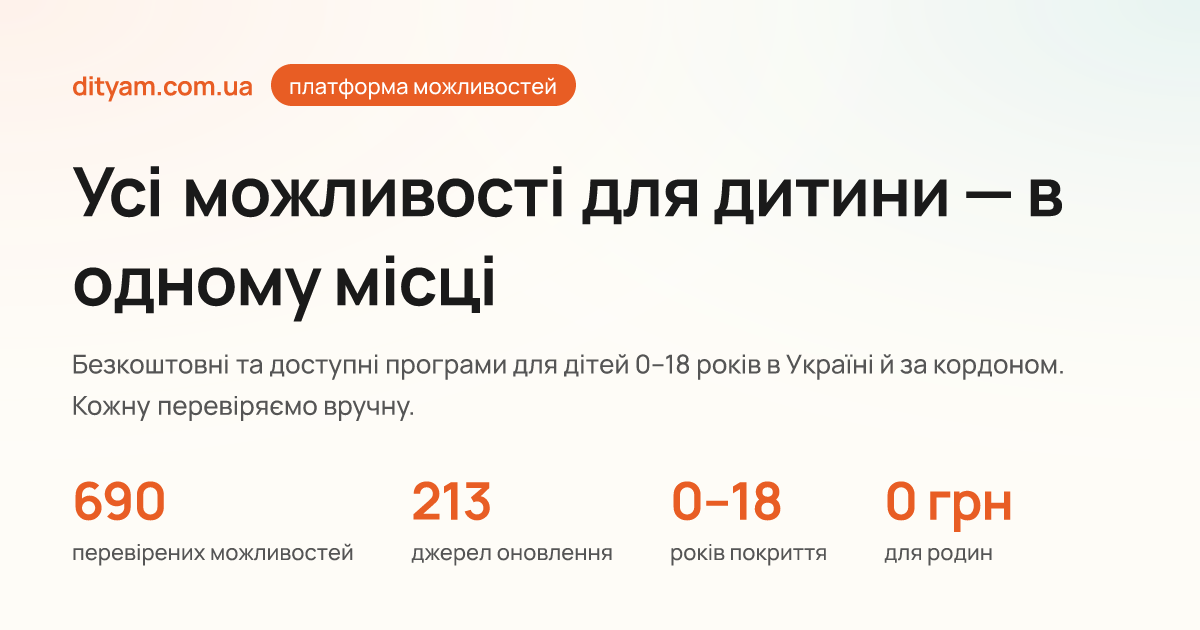
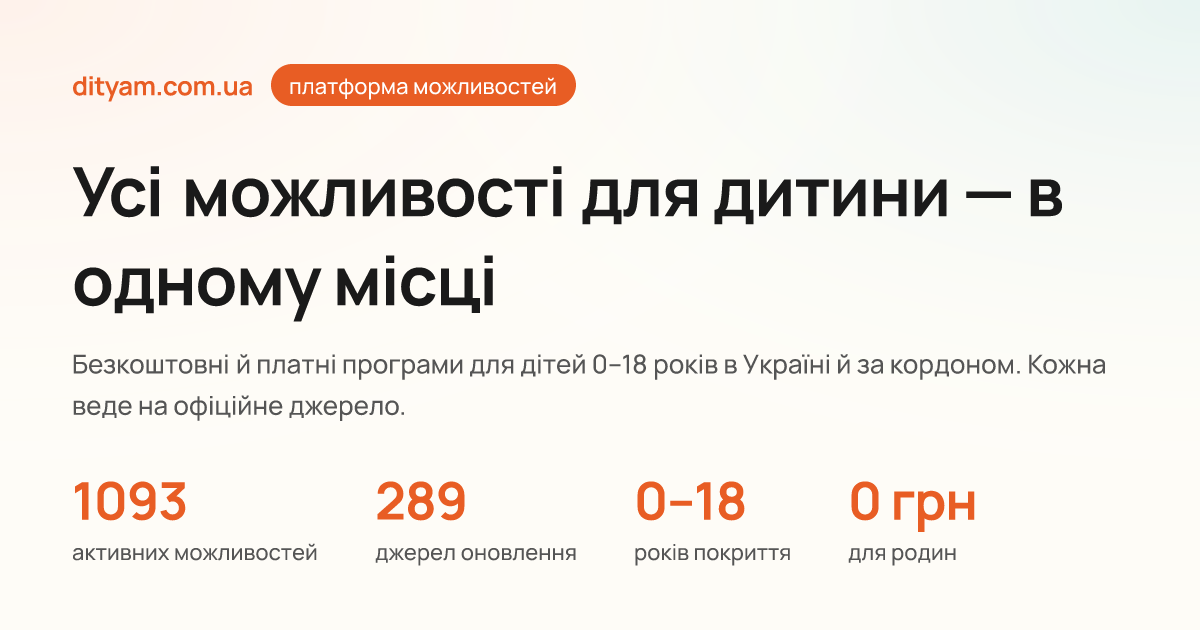
fix: прибрано «перевіряємо вручну» звідусіль
На прохання Марії 14.09.2026: «видали звідусіль перевіряємо вручну».

Твердження було неправдою. Записи проходять автоматичні ворота:
обовʼязкові поля, модель-суддя, щоденна перевірка посилань. Людина
дивиться лише сумнівні записи й чутливі категорії.

Де стояло і що тепер:
- прескіт, uk і en: опис одним абзацом і «Як наповнюється»;
- блок підписки на Telegram, uk і en;
- речення-підсумок на кожній тематичній підбірці, uk і en;
- картинка-прев'ю сайту: живий маршрут і статичний public/og-image.png,
  перемальований із живими числами (1 093 можливості, 289 джерел);
- підбірка безкоштовних гуртків: примітка й відповідь у FAQ, uk і en;
- сторінки «Як ми перевіряємо» і «How we verify»;
- текст старого поста про WoMo.

Попутно в тих самих рядках:
- «доступні програми» → «платні»: платне називаємо платним;
- «children of the fallen» у прескіті → «children of Ukraine’s defenders»;
- «нічого не продає» → «не бере комісії»: після Dityam+ це неправда;
- «каталог» → «платформа», «Dityam» → «Dityam.com.ua».

Сторінки «Як ми перевіряємо» звірено з кодом рядок за рядком. Прибрано
«все від агента йде на ручну модерацію» (зелений коридор публікує без
людини), «дитячих даних не збираємо взагалі» (Dityam+ зберігає профіль),
«щоночі» (скрапери й перевірка посилань ідуть раз на день), «посольства» і
«джерел щодня». Лишилось підтверджене: три невдалі перевірки поспіль до
закриття, щотижневе перечитування записів без дедлайну, дата останньої
перевірки на картці.
[…]

diff --git a/app/yak-my-pereviriaiemo/page.js b/app/yak-my-pereviriaiemo/page.js
@@ -6,15 +6,51 @@ const SITE_URL = 'https://dityam.com.ua';
 
 export const revalidate = 3600;
 
+// 14.09.2026 сторінку звірено з кодом рядок за рядком. Прибрано:
+// «все нове від агента йде на ручну модерацію» (зелений коридор auto_review
+// публікує без людини), «дитячих даних не збираємо взагалі» (Dityam+ зберігає
+// профіль дитини), «щоночі» (скрапери й перевірка лінків ідуть раз на день
+// уранці), «200+ джерел» і «джерел щодня» (число — джерела з живими записами).
+// SEO/GEO: title з повною назвою до 60 символів, опис до 160, свої OG і
+// Twitter, JSON-LD WebPage + BreadcrumbList.
+const TITLE = 'Як Dityam.com.ua перевіряє можливості для дітей';
+const DESCRIPTION = 'Щоденний збір, обовʼязкові поля перед публікацією, щоденна перевірка посилань, закриття завершених наборів, злиття дублів і модератор там, де є сумнів.';
+
 export const metadata = {
-  title: 'Як ми перевіряємо дані — Dityam',
-  description:
-    'Як працює каталог Dityam: 200+ джерел, щоденні оновлення, автоматична перевірка кожного лінка щоночі, детекція закритих наборів і ручна модерація сумнівного. Чесно про те, що стоїть за словом «перевірено».',
+  title: { absolute: TITLE },
+  description: DESCRIPTION,
   alternates: {
     canonical: 'https://dityam.com.ua/yak-my-pereviriaiemo',
     // Взаємність обовʼязкова: односторонню анотацію Google ігнорує.
     languages: { uk: 'https://dityam.com.ua/yak-my-pereviriaiemo', en: 'https://dityam.com.ua/en/how-we-verify' },
   },
+  openGraph: {
+    type: 'website', locale: 'uk_UA', siteName: 'Dityam.com.ua',
+    url: 'https://dityam.com.ua/yak-my-pereviriaiemo', title: TITLE, description: DESCRIPTION,
+  },
+  twitter: { card: 'summary_large_image', title: TITLE, description: DESCRIPTION },
+};
+
+const JSON_LD = {
+  '@context': 'https://schema.org',
+  '@graph': [
+    {
+      '@type': 'WebPage',
+      '@id': 'https://dityam.com.ua/yak-my-pereviriaiemo#page',
+      url: 'https://dityam.com.ua/yak-my-pereviriaiemo',
+      name: TITLE,
+      description: DESCRIPTION,
+      inLanguage: 'uk',
+      isPartOf: { '@id': 'https://dityam.com.ua/#website' },
+    },
+    {
+      '@type': 'BreadcrumbList',
+      itemListElement: [
+        { '@type': 'ListItem', position: 1, name: 'Головна', item: 'https://dityam.com.ua' },
+        { '@type': 'ListItem', position: 2, name: 'Як ми перевіряємо', item: 'https://dityam.com.ua/yak-my-pereviriaiemo' },
+      ],
+    },
+  ],
 };
 
 async function getStats() {
@@ -35,18 +71,18 @@ async function getStats() {
 const STEPS = [
   {
     icon: '🔎',
-    title: 'Щодня збираємо з усіх наших джерел',
-    text: 'Державні сайти, фонди, посольства, громадські організації, освітні платформи й Telegram-канали. Скрапери та пошуковий агент працюють щоночі; частота під кожне джерело своя — сезонні (табори навесні, олімпіади восени) перевіряються частіше.',
+    title: 'Щодня збираємо з наших джерел',
+    text: 'Державні сайти, фонди, міжнародні програми, громадські організації, освітні платформи й Telegram-канали. Скрапери й пошуковий агент працюють щодня; частота обходу своя для кожного джерела — ті, де нове зʼявляється частіше, перевіряємо частіше.',
   },
   {
     icon: '🧠',
     title: 'Структуруємо кожен запис',
-    text: 'Із сирого тексту виділяємо головне: вік, тему, місто, вартість, дедлайн. Якщо на сторінці написано «реєстрацію завершено» — запис одразу закривається, навіть якщо сторінка ще жива.',
+    text: 'Із тексту організатора виділяємо головне: вік, тип, місто або формат, вартість, дату. Без дати, типу, віку, вартості й формату чи місця запис не публікується — його дивиться модератор. Якщо на сторінці написано, що набір завершено, запис одразу закривається, навіть якщо сторінка ще жива.',
   },
   {
     icon: '🔗',
-    title: 'Перевіряємо кожен лінк щоночі',
-    text: 'Усі активні можливості проходять нічну перевірку посилань. Мертвий лінк не ховається одразу — даємо джерелу три доби ожити, і лише потім закриваємо запис. На сторінці кожної можливості видно, коли її перевірено востаннє.',
+    title: 'Перевіряємо кожне посилання щодня',
+    text: 'Усі активні можливості щодня проходять перевірку посилань. Мертве посилання не ховається одразу: запис закривається лише після трьох невдалих перевірок поспіль. На сторінці кожної можливості видно, коли посилання перевірено востаннє.',
   },
   {
     icon: '👯',
@@ -56,12 +92,12 @@ const STEPS = [
   {
     icon: '⏳',
     title: 'Не даємо записам застаріти',
-    text: 'Можливості без дедлайну (гуртки, курси) регулярно переперевіряються: сторінка жива і набір триває — запис лишається; ні — чесно позначаємо «завершено». Закриті сторінки не зникають: на них плашка і посилання на живий каталог.',
+    text: 'Записи без дедлайну (гуртки, курси) щотижня перечитуються: сторінка жива і набір триває — запис лишається; ні — позначаємо «завершено». Закриті сторінки не зникають: на них плашка й посилання на актуальні можливості.',
   },
   {
     icon: '🫶',
-    title: 'Людина — там, де сумнів',
-    text: 'Все нове від пошукового агента і все, у чому система не впевнена, потрапляє на ручну модерацію перед публікацією. Дитячих даних не збираємо взагалі — каталог працює без реєстрації.',
+    title: 'Модератор — там, де сумнів',
+    text: 'Автоматично запис публікується лише тоді, коли погоджуються і механічні перевірки, і модель-суддя. Усе, де бракує обовʼязкових полів, де суддя вагається, а також медична, психологічна допомога й виплати, іде до модератора. Користуватися платформою можна без реєстрації.',
   },
 ];
 
@@ -70,6 +106,7 @@ export default async function YakPereviriaiemo() {
 
   return (
     <>
+      <script type="application/ld+json" dangerouslySetInnerHTML={{ __html: JSON.stringify(JSON_LD) }} />
       <div className="container">
         <div className="hero">
           <div className="hero-copy">
@@ -79,11 +116,11 @@ export default async function YakPereviriaiemo() {
             <h1>
               Як ми перевіряємо
               <br />
-              <span className="accent">дані каталогу</span>
+              <span className="accent">можливості на платформі</span>
             </h1>
             <p>
-              «Перевірено» на Dityam — це не обіцянка, а щоденний процес. Ось як
-              він влаштований — чесно і без магії.
+              «Перевірено» на Dityam.com.ua — це не обіцянка, а щоденний процес.
+              Ось як він влаштований — чесно й без магії.
             </p>
             <div className="stats">
               <div className="stat">
@@ -96,7 +133,7 @@ export default async function YakPereviriaiemo() {
               </div>
               <div className="stat">
                 <span className="stat-num">{sources ?? FALLBACK.sources}</span>
-                <span className="stat-label">джерел щодня</span>
+                <span className="stat-label">джерел із живими записами</span>
               </div>
             </div>
           </div>
@@ -116,7 +153,7 @@ export default async function YakPereviriaiemo() {
 
         <p className="topic-note" style={{ marginTop: 24 }}>
           Побачили помилку чи мертве посилання? <a href="mailto:hellodityam.com.ua@gmail.com?subject=Помилка%20на%20dityam.com.ua">Напишіть нам</a> —
-          виправимо і скажемо дякую. А якщо знаєте можливість, якої в каталозі нема —{' '}
+          виправимо і скажемо дякую. А якщо знаєте можливість, якої на платформі ще немає —{' '}
           <a href="mailto:hellodityam.com.ua@gmail.com?subject=Додати%20можливість">пропонуйте</a>.
         </p>
       </div>

diff --git a/app/en/how-we-verify/page.js b/app/en/how-we-verify/page.js
@@ -6,10 +6,40 @@ const SITE_URL = 'https://dityam.com.ua';
 
 export const revalidate = 3600;
 
+// Звірено з кодом 14.09.2026 — див. коментар в app/yak-my-pereviriaiemo/page.js.
+const TITLE = 'How Dityam.com.ua checks opportunities for children';
+const DESCRIPTION = 'Daily collection, required fields before publishing, daily link checks, closed intakes detected, duplicates merged, and a moderator wherever there is doubt.';
+
+const JSON_LD = {
+  '@context': 'https://schema.org',
+  '@graph': [
+    {
+      '@type': 'WebPage',
+      '@id': `${SITE_URL}/en/how-we-verify#page`,
+      url: `${SITE_URL}/en/how-we-verify`,
+      name: TITLE,
+      description: DESCRIPTION,
+      inLanguage: 'en',
+      isPartOf: { '@id': `${SITE_URL}/#website` },
+    },
+    {
+      '@type': 'BreadcrumbList',
+      itemListElement: [
+        { '@type': 'ListItem', position: 1, name: 'Home', item: `${SITE_URL}/en` },
+        { '@type': 'ListItem', position: 2, name: 'How we verify', item: `${SITE_URL}/en/how-we-verify` },
+      ],
+    },
+  ],
+};
+
 export const metadata = {
-  title: 'How we verify data — Dityam',
-  description:
-    'How the Dityam platform works: 200+ sources, daily updates, every link checked nightly, closed intakes detected, and human moderation where there is doubt. Honestly about what “verified” means here.',
+  title: { absolute: TITLE },
+  description: DESCRIPTION,
+  openGraph: {
+    type: 'website', locale: 'en_GB', siteName: 'Dityam.com.ua',
+    url: `${SITE_URL}/en/how-we-verify`, title: TITLE, description: DESCRIPTION,
+  },
+  twitter: { card: 'summary_large_image', title: TITLE, description: DESCRIPTION },
   alternates: {
     canonical: `${SITE_URL}/en/how-we-verify`,
     languages: {
@@ -37,18 +67,18 @@ async function getStats() {
 const STEPS = [
   {
     icon: '🔎',
-    title: 'We collect from every source, every day',
-    text: 'Government sites, foundations, embassies, NGOs, educational platforms and Telegram channels. Scrapers and a search agent run nightly; each source has its own rhythm — seasonal ones (camps in spring, olympiads in autumn) are checked more often.',
+    title: 'We collect from our sources every day',
+    text: 'Government sites, foundations, international programmes, NGOs, educational platforms and Telegram channels. Scrapers and a search agent run daily; each source has its own rhythm — where new things appear more often, we check more often.',
   },
   {
     icon: '🧠',
     title: 'We structure every record',
-    text: 'From raw text we pull out what matters: age, topic, city, cost, deadline. If a page says the intake is closed, the record closes right away — even if the page itself is still alive.',
+    text: 'From the organiser’s text we pull out what matters: age, type, city or format, cost, date. Without a date, type, age, cost and format or place, a record is not published — a moderator looks at it. If a page says the intake is closed, the record closes right away, even if the page itself is still alive.',
   },
   {
     icon: '🔗',
-    title: 'We check every link nightly',
-    text: 'All active opportunities go through a nightly link check. A dead link isn’t hidden at once — we give the source three days to come back, and only then close the record. Every opportunity page shows when it was last checked.',
+    title: 'We check every link daily',
+    text: 'All active opportunities go through a link check every day. A dead link isn’t hidden at once: a record closes only after three failed checks in a row. Every opportunity page shows when its link was last checked.',
   },
   {
     icon: '👯',
@@ -58,12 +88,12 @@ const STEPS = [
   {
     icon: '⏳',
     title: 'We don’t let records go stale',
-    text: 'Opportunities without a deadline (clubs, courses) are re-checked regularly: if the page is alive and the intake is still open, the record stays; if not, we honestly mark it as finished. Closed pages don’t disappear: they carry a notice and a link back to the live listings.',
+    text: 'Listings without a deadline (clubs, courses) are re-read every week: if the page is alive and the intake is still open, the record stays; if not, we mark it as finished. Closed pages don’t disappear: they carry a notice and a link back to current opportunities.',
   },
   {
     icon: '🫶',
-    title: 'A human where there is doubt',
-    text: 'Everything new from the search agent, and anything the system isn’t sure about, goes to manual moderation before publication. We collect no data about children at all — the platform works without sign-up.',
+    title: 'A moderator where there is doubt',
+    text: 'A listing is published automatically only when both the mechanical checks and an AI judge agree. Anything missing required fields, anything the judge hesitates on, and all medical, psychological help and payments go to a moderator. You can use the platform without signing up.',
   },
 ];
 
@@ -72,6 +102,7 @@ export default async function HowWeVerifyEn() {
 
   return (
     <>
+      <script type="application/ld+json" dangerouslySetInnerHTML={{ __html: JSON.stringify(JSON_LD) }} />
       <div className="container" lang="en">
         <div className="hero">
           <div className="hero-copy">
@@ -84,8 +115,8 @@ export default async function HowWeVerifyEn() {
               <span className="accent">the data</span>
             </h1>
             <p>
-              “Verified” on Dityam isn’t a promise — it’s a daily process. Here is
-              how it works, honestly and without magic.
+              “Verified” on Dityam.com.ua isn’t a promise — it’s a daily process.
+              Here is how it works, honestly and without magic.
             </p>
             <div className="stats">
               <div className="stat">
@@ -98,7 +129,7 @@ export default async function HowWeVerifyEn() {
               </div>
               <div className="stat">
                 <span className="stat-num">{sources ?? FALLBACK.sources}</span>
-                <span className="stat-label">sources, every day</span>
+                <span className="stat-label">sources with live listings</span>
               </div>
             </div>
           </div>

diff --git a/lib/topics.js b/lib/topics.js
@@ -54,13 +54,14 @@ export const TOPICS = {
     intro:
       'Гуртки й курси, за які не треба платити: державні, від громадських організацій, університетів і бізнесу. Частина працює онлайн, тож долучитись можна з будь-якого міста або з-за кордону.',
     note:
-      'Каталог не бере комісії й нічого не продає — ми лише збираємо в одному місці те, що вже існує, і перевіряємо кожен запис вручну.',
+      // Твердження про ручну перевірку прибрано 14.09.2026 на прохання Марії: записи проходять автоматичні ворота, людина дивиться лише сумнівні.
+      'Платформа не бере комісії ні з організаторів, ні з родин: ми збираємо в одному місці те, що вже існує, і кожен запис веде на офіційну сторінку організатора.',
     // FAQ: видимий блок + FAQPage-схема. Питання — реальні запити з пошуку;
     // відповіді самодостатні, щоб AI-асистент міг процитувати їх дослівно.
     faq: [
       {
         q: 'Чи справді всі гуртки в цій підбірці безкоштовні?',
-        a: 'Так. Сюди потрапляють лише гуртки, курси й майстер-класи з безкоштовною участю: державні програми, проєкти громадських організацій, університетів і бізнесу. Кожен запис перевірено вручну перед публікацією.',
+        a: 'Так. Сюди потрапляють лише гуртки, курси й майстер-класи з безкоштовною участю: державні програми, проєкти громадських організацій, університетів і бізнесу. Вартість визначаємо за текстом на сторінці організатора, і кожна картка веде саме туди — перевірте умови перед записом.',
       },
       {
         q: 'Чи можна займатися онлайн з іншого міста або з-за кордону?',
@@ -68,7 +69,7 @@ export const TOPICS = {
       },
       {
         q: 'Як записатися на безкоштовний гурток?',
-        a: 'Кожна картка в каталозі веде на офіційну сторінку організатора — запис відбувається саме там. Dityam не бере комісії та не збирає заявок: це відкритий каталог.',
+        a: 'Кожна картка на платформі веде на офіційну сторінку організатора — запис відбувається саме там. Dityam.com.ua не бере комісії та не збирає заявок.',
       },
     ],
     // Англійська версія — не переклад, а своя сторінка під свої запити.
@@ -84,11 +85,11 @@ export const TOPICS = {
       intro:
         'Clubs and courses that cost nothing: run by the state, by charities, universities and companies. Many are online, so a child can join from another city — or from another country.',
       note:
-        'Dityam takes no commission and sells nothing. We collect what already exists in one place and check every listing by hand.',
+        'Dityam.com.ua takes no commission from organisers or families: we collect what already exists in one place, and every listing links to the organiser’s official page.',
       faq: [
         {
           q: 'Are these clubs really free?',
-          a: 'Yes. Only clubs, courses and workshops with free participation are listed here: state programmes, projects by charities, universities and companies. Every listing is checked by hand before it is published.',
+          a: 'Yes. Only clubs, courses and workshops with free participation are listed here: state programmes, projects by charities, universities and companies. We take the cost from the organiser’s own page, and every card links there — check the terms before signing up.',
         },
         {
           q: 'Can a child join online from abroad?',

diff --git a/app/PressKit.js b/app/PressKit.js
@@ -49,8 +49,8 @@ const T = {
       + 'дітей 0–18 років в Україні та за кордоном. Курси, олімпіади, '
       + 'стипендії, табори, гранти, обміни, медична допомога та державні '
       + 'виплати — в одному місці, з фільтрами за віком, регіоном, вартістю '
-      + 'й особливими потребами дитини. Кожен запис перевіряється вручну і '
-      + 'має посилання на офіційне джерело. Окрема увага — дітям ВПО, дітям '
+      + 'й особливими потребами дитини. Кожен запис має посилання на офіційне '
+      + 'джерело, а посилання перевіряються щодня. Окрема увага — дітям ВПО, дітям '
       + 'захисників і захисниць та дітям з особливими потребами.',
 
     briefTitle: 'Коротко',
@@ -60,7 +60,8 @@ const T = {
       ['Вік дітей', '0–18 років'],
       ['Для родин', 'безкоштовно, без реклами й без реєстрації'],
       ['Хто робить', 'Марія Шутяк, соло-проєкт'],
-      ['Як наповнюється', 'щоденні скрапери МОН, МАН, IREX, UNICEF, Erasmus+ та інших джерел + ручна модерація кожного запису; посилання перевіряються щоночі'],
+      // Твердження про ручну перевірку прибрано 14.09.2026 на прохання Марії: записи проходять автоматичні ворота, людина дивиться лише сумнівні.
+      ['Як наповнюється', 'щоденні скрапери МОН, МАН, Erasmus+ та інших джерел; автоматична перевірка обовʼязкових полів, сумнівні записи дивиться модератор; посилання перевіряються щодня'],
     ],
     regions: 'Регіональні сторінки',
 
@@ -119,8 +120,8 @@ const T = {
       + 'aged 0–18 in Ukraine and abroad. Courses, olympiads, scholarships, camps, '
       + 'grants, exchanges, medical help and state payments — in one place, with '
       + 'filters by age, region, cost and a child’s particular needs. Every listing '
-      + 'is checked by hand and links to its official source. Particular attention '
-      + 'goes to displaced children, children of veterans and of the fallen, and '
+      + 'links to its official source, and links are checked daily. Particular attention '
+      + 'goes to displaced children, children of Ukraine’s defenders, and '
       + 'children with special needs.',
 
     briefTitle: 'In brief',
@@ -130,7 +131,7 @@ const T = {
       ['Ages', '0–18'],
       ['For families', 'free, with no advertising and no sign-up'],
       ['Who runs it', 'Mariia Shutiak, a solo project'],
-      ['How it is filled', 'daily scrapers of the Ministry of Education, the Junior Academy of Sciences, IREX, UNICEF, Erasmus+ and other sources, plus manual review of every listing; links are checked nightly'],
+      ['How it is filled', 'daily scrapers of the Ministry of Education, the Junior Academy of Sciences, Erasmus+ and other sources; automatic checks of required fields, with doubtful listings reviewed by a moderator; links are checked daily'],
     ],
     regions: 'Regional pages',
 

diff --git a/app/TelegramSubscribeBlock.js b/app/TelegramSubscribeBlock.js
@@ -14,13 +14,14 @@ const L = {
   uk: {
     aria: 'Telegram-канал Dityam',
     title: 'Щоб не шукати вручну',
-    desc: 'Нові можливості для дітей виходять щодня в Telegram — з датами й дедлайнами. Кожну перевіряємо руками перед публікацією.',
+    // Твердження про ручну перевірку прибрано 14.09.2026 на прохання Марії: записи проходять автоматичні ворота, людина дивиться лише сумнівні.
+    desc: 'Нові можливості для дітей виходять щодня в Telegram — з датами, дедлайнами й посиланням на організатора.',
     cta: 'Долучитися до каналу',
   },
   en: {
     aria: 'Dityam Telegram channel',
     title: 'So you don’t have to keep looking',
-    desc: 'New opportunities for children go out on Telegram every day — with dates and deadlines. Each one is checked by hand before it’s published. Posts are in Ukrainian.',
+    desc: 'New opportunities for children go out on Telegram every day — with dates, deadlines and a link to the organiser. Posts are in Ukrainian.',
     cta: 'Join the channel',
   },
 };

diff --git a/lib/og-card.js b/lib/og-card.js
@@ -76,11 +76,13 @@ export function ogCard({ opportunities, sources }) {
       h('div', {
         key: 'sub',
         style: { display: 'flex', fontSize: 26, fontWeight: 500, color: MUTED, lineHeight: 1.4 },
-      }, 'Безкоштовні та доступні програми для дітей 0–18 років в Україні й за кордоном. Кожну перевіряємо вручну.'),
+      // «Кожну перевіряємо вручну» прибрано 14.09.2026: це неправда, записи
+      // проходять автоматичні перевірки. «Доступні» замість «платні» — теж.
+      }, 'Безкоштовні й платні програми для дітей 0–18 років в Україні й за кордоном. Кожна веде на офіційне джерело.'),
     ]),
 
     h('div', { key: 'stats', style: { display: 'flex', gap: 56 } }, [
-      stat(String(opportunities), 'перевірених можливостей'),
+      stat(String(opportunities), 'активних можливостей'),
       stat(String(sources), 'джерел оновлення'),
       stat('0–18', 'років покриття'),
       stat('0 грн', 'для родин'),

diff --git a/app/TopicPage.js b/app/TopicPage.js
@@ -22,7 +22,8 @@ const CHROME = {
     locale: 'uk_UA',
     sentence: (updated, total, freeCount) =>
       `Станом на ${updated} на платформі Dityam.com.ua — ${total} ${opportunitiesWord(total)} `
-      + `в цій категорії, перевірених вручну`
+      // Твердження про ручну перевірку прибрано 14.09.2026 на прохання Марії: записи проходять автоматичні ворота, людина дивиться лише сумнівні.
+      + `в цій категорії`
       + (freeCount > 0 ? `, з них ${freeCount} — ${freeWord(freeCount)}` : '')
       + '. Платформа оновлюється щодня.',
     countLabel: (n) => opportunitiesWord(n),
@@ -37,7 +38,7 @@ const CHROME = {
     siteName: 'Dityam.com.ua',
     locale: 'en_US',
     sentence: (updated, total, freeCount) =>
-      `As of ${updated}, Dityam.com.ua lists ${total} hand-checked `
+      `As of ${updated}, Dityam.com.ua lists ${total} `
       + `${total === 1 ? 'opportunity' : 'opportunities'} in this category`
       + (freeCount > 0 ? `, ${freeCount} of them free` : '')
       + '. The platform is updated daily.',
